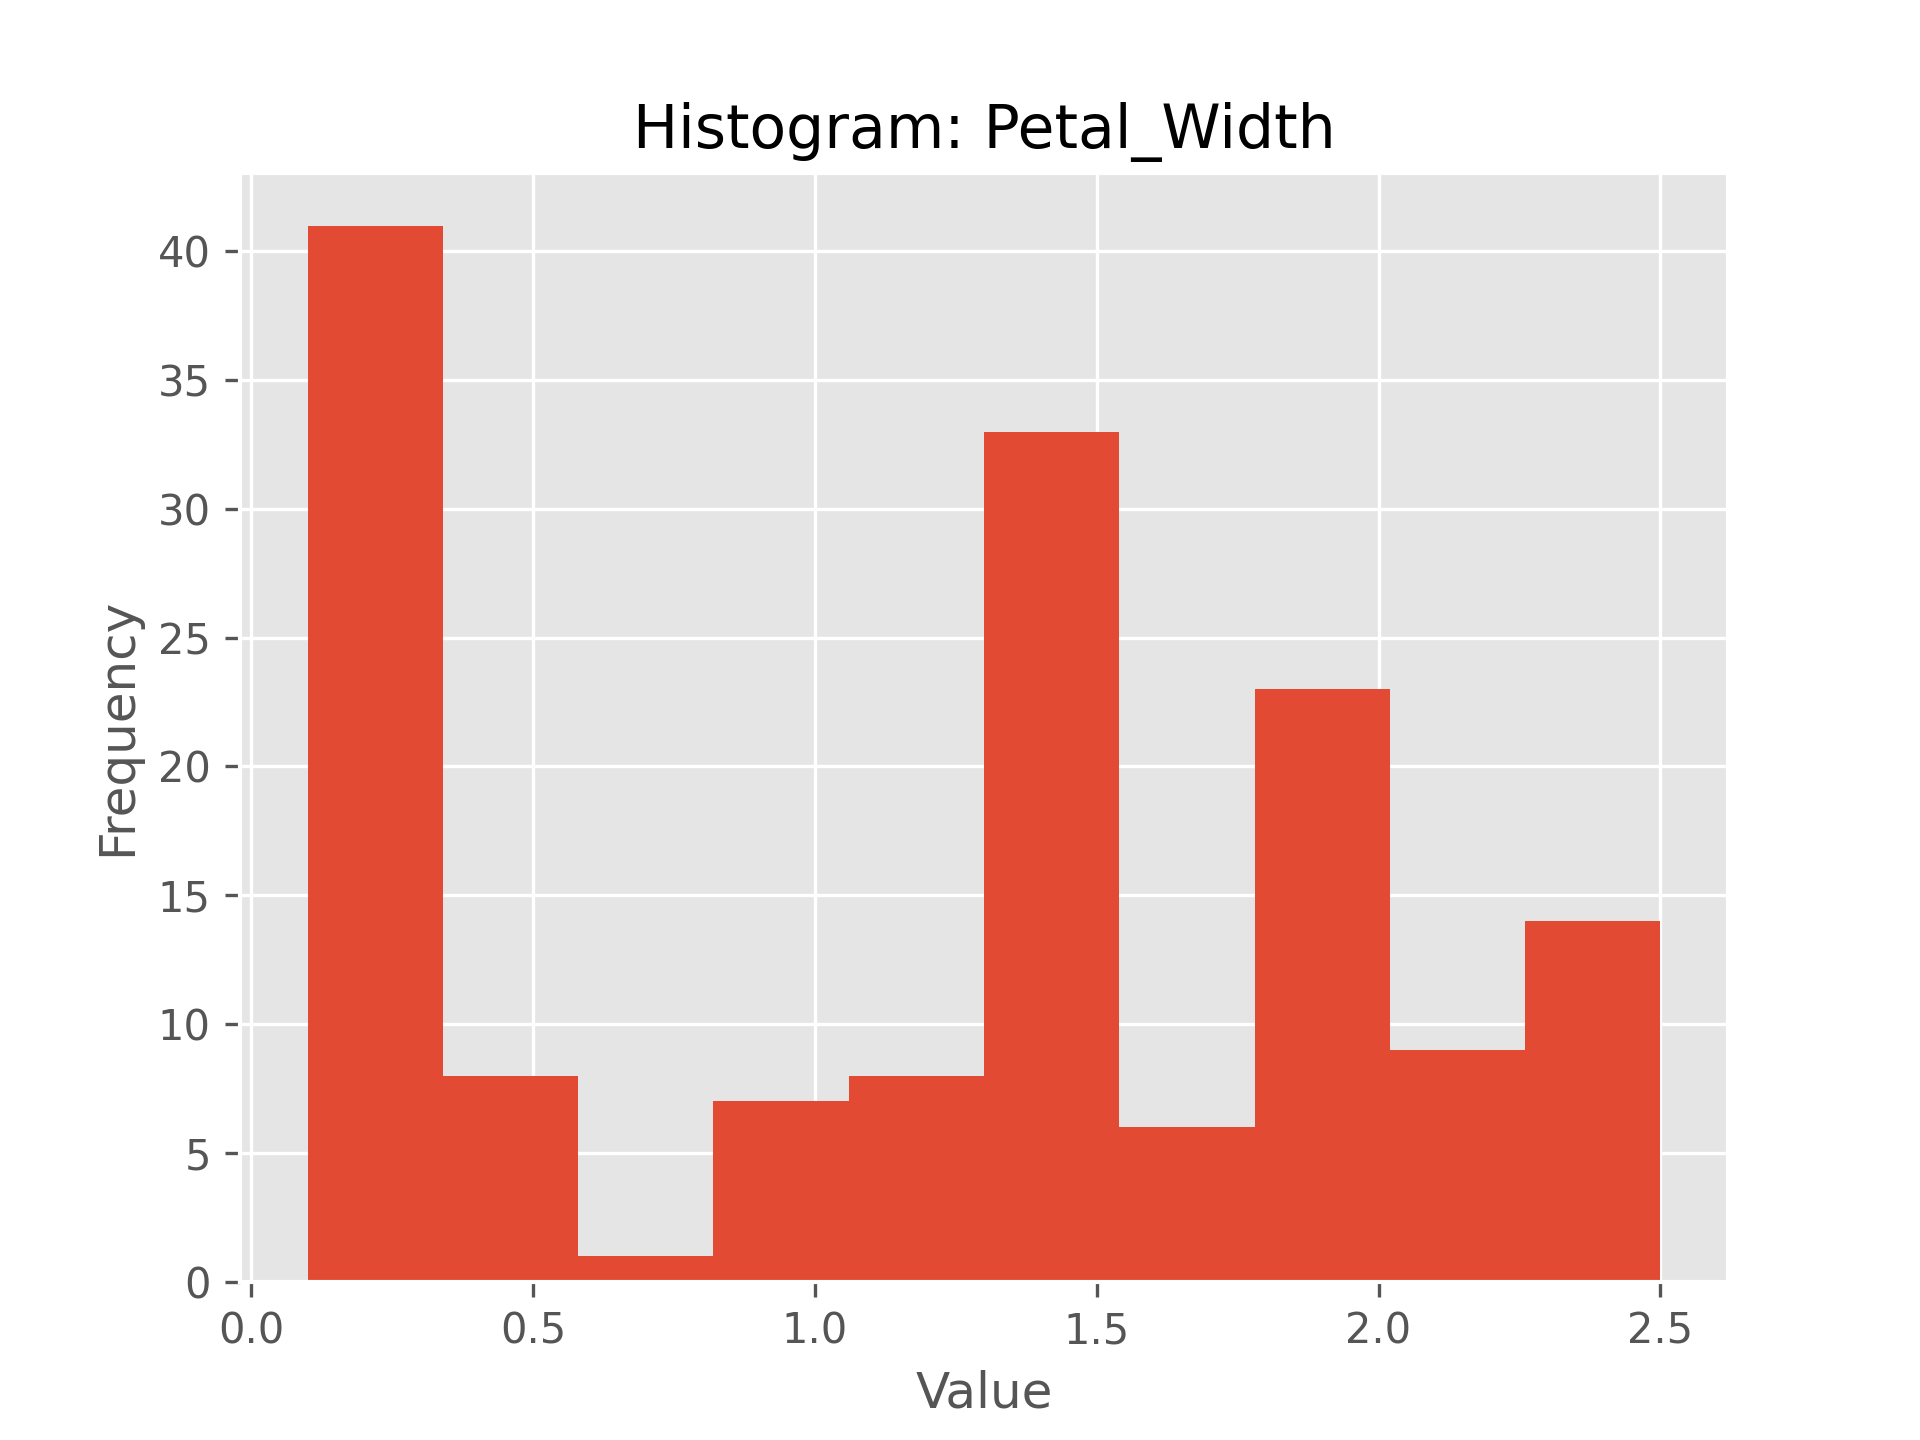
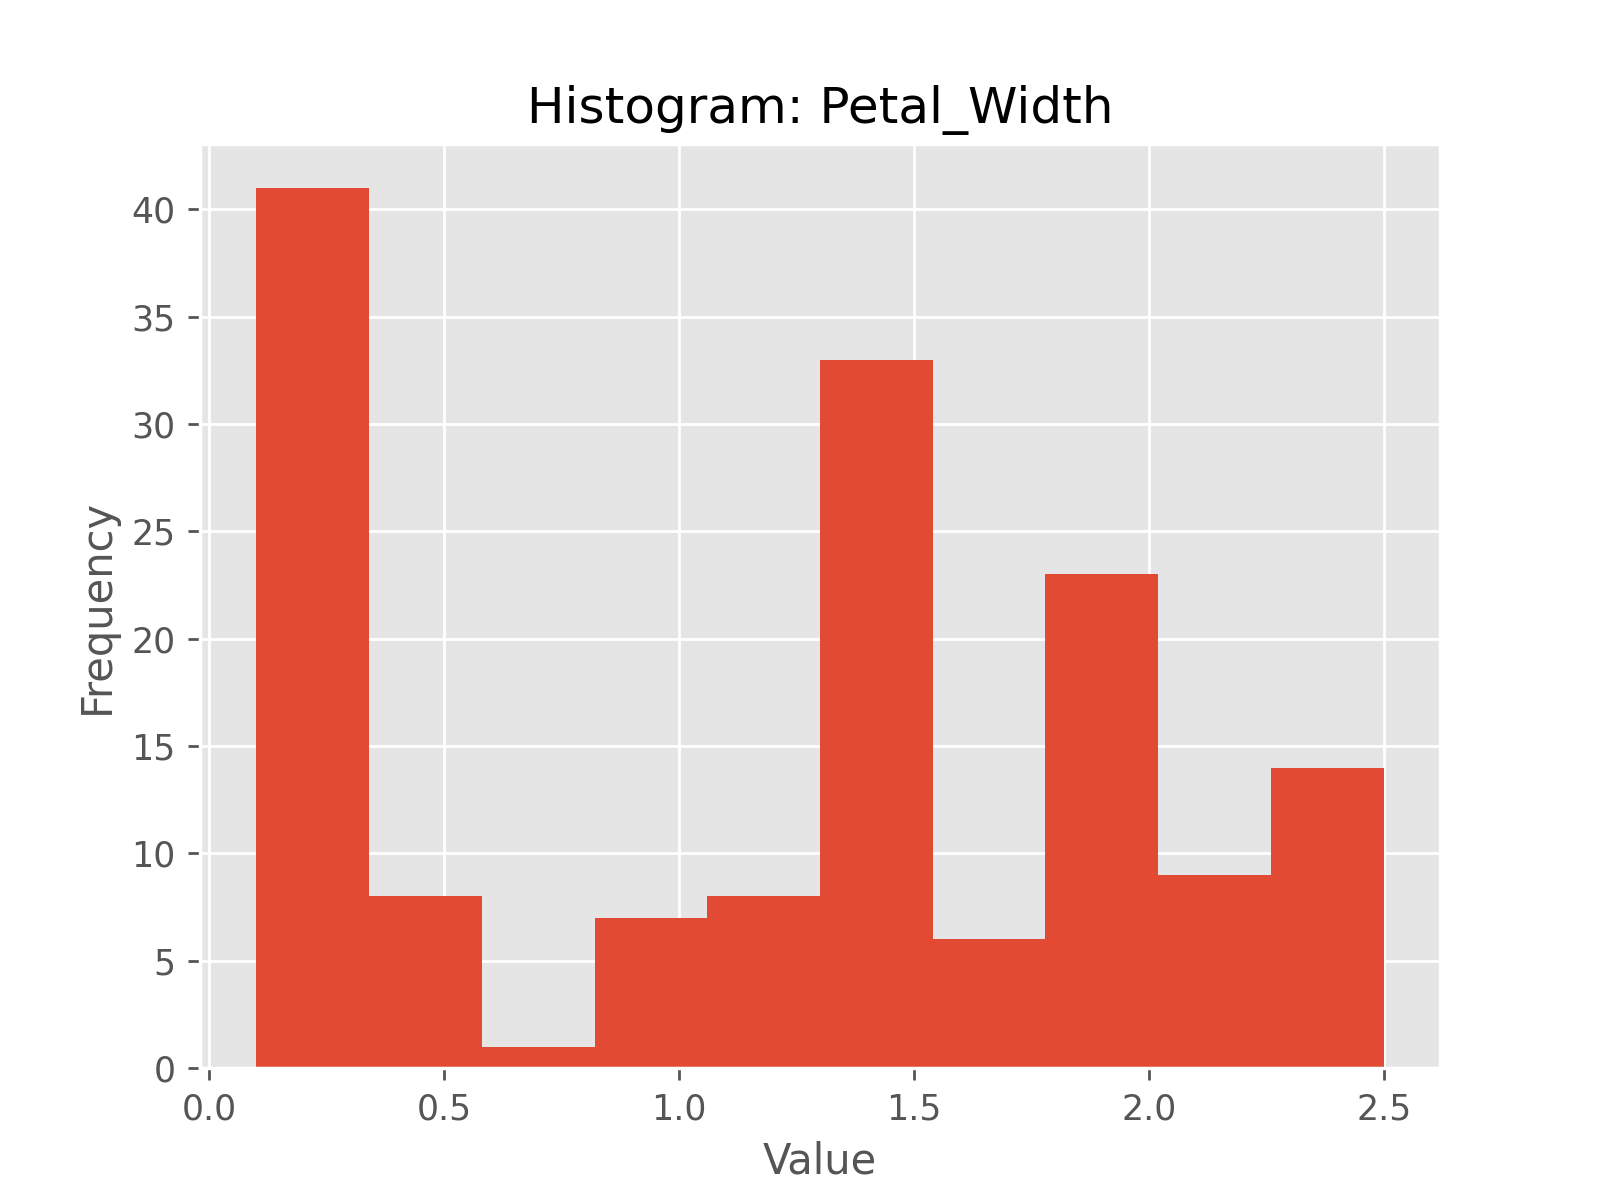
Added sklearn and updated README

diff --git a/analysis.py b/analysis.py
@@ -8,6 +8,9 @@ import matplotlib.pyplot as plt
 import itertools
 import seaborn as sns
 from sklearn.preprocessing import LabelEncoder
+from sklearn.linear_model import LogisticRegression
+from sklearn.model_selection import train_test_split
+from sklearn.metrics import classification_report
 
 plt.style.use('ggplot') # Uses style template
 
@@ -19,24 +22,28 @@ df = pd.read_csv(file_name,
                  names=column_headers) # Inserts column headers
 
 # Convert the class labels to numerical format
-df['Target'] = df['Class'].copy() # Make a copy of class to later encode
+df['Class_Int'] = df['Class'].copy() # Make a copy of the class coolumn to later encode
 le = LabelEncoder()
-df['Target'] = le.fit_transform(df['Target'])
+df['Class_Int'] = le.fit_transform(df['Class'])
+df = df[['Sepal_Length','Sepal_Width','Petal_Length','Petal_Width','Class_Int','Class']] # Rearrange columns.
 
 # Calculate summary statistics and save to a text file
 summary_data = df.describe()
 summary_data.to_csv('summary_data.txt')
 
+df_stats = df.groupby(['Class']).agg(['mean', 'max', 'min'])
+print(df_stats)
+
 # Generate histograms for each numeric variable and save as PNG files
-for column in column_headers[:-1]: # Loop through all column headers except 'class'
+for column in df.columns[:-2]: # Loop through all column headers except 'Class' and 'Class_Int'
     plt.figure() # Create a new figure for each histogram
     ax = df[column].plot(kind='hist', title=f'Histogram: {column}')
     ax.set_xlabel('Value')
     ax.set_ylabel('Frequency')
-    plt.savefig(f'Histogram_{column}.png', dpi=300) # Saves file.
+    plt.savefig(f'Histogram_{column}.png', dpi=250) # Saves file.
 
 # Generate scatterplots for all combinations of numeric variables
-scatterplot_axes = list(itertools.combinations(column_headers[:-1], 2))
+scatterplot_axes = list(itertools.combinations(df.columns[:-1], 2))
 
 for x, y in scatterplot_axes: # Unpacks and loops the x and y variables from each tuple
     plt.figure() # Create a new figure for each histogram
@@ -45,17 +52,31 @@ for x, y in scatterplot_axes: # Unpacks and loops the x and y variables from eac
                 hue='Class',
                 data=df,)
     plt.title(f'Scatterplot: {x} vs {y}')
-    plt.savefig(f'Scatterplot_{x}_vs_{y}.png', dpi=300) # Saves file.
+    plt.savefig(f'Scatterplot_{x}_vs_{y}.png', dpi=250) # Saves file.
 
 sns.pairplot(df, 
-             vars=['Sepal_Length','Sepal_Width','Petal_Length','Petal_Width'],
+             vars=df.columns[:-1],
              hue='Class')
-plt.savefig(f'Pairplot.png', dpi=300)
+plt.savefig(f'Pairplot.png', dpi=250)
 
 plt.figure() # Creates new figure for correlation heatmap
-df_corr = df[['Sepal_Length','Sepal_Width','Petal_Length','Petal_Width']].corr()
+df_corr = df[['Sepal_Length','Sepal_Width','Petal_Length','Petal_Width','Class_Int']].corr()
 sns.heatmap(df_corr, annot=True)
 plt.title('Heatmap: Correlation')
-plt.savefig(f'Heatmap_Correlation', dpi=300)
+plt.tight_layout() # Adjust the layout of the figure
+plt.savefig(f'Heatmap_Correlation', dpi=250)
 
-print(df)
+# Separate features and labels
+X = df[['Sepal_Length', 'Sepal_Width', 'Petal_Length', 'Petal_Width']]
+y = df['Class_Int']
+
+# Split the data into training and testing sets
+X_train, X_test, y_train, y_test = train_test_split(X, y, test_size=0.2)
+
+# Create and train the logistic regression model
+model = LogisticRegression(max_iter=200)
+model.fit(X_train, y_train)
+
+# Evaluate the model
+y_pred = model.predict(X_test)
+print(classification_report(y_test, y_pred))

diff --git a/README.md b/README.md
@@ -10,46 +10,58 @@
 
 In this code the Iris dataset was analysed. This dataset contains measurements of sepal and petal lengths and widths for three different species of iris flowers. The script is organised as follows:
 
-1. Import necessary libraries: We begin by importing the required libraries - pandas, numpy, matplotlib, itertools, and seaborn.<sup>[1,](#ref1)</sup><sup>[3](#ref3)</sup>
+1. Imported necessary libraries: The required libraries were imported: pandas, numpy, matplotlib, itertools, seaborn, and sklearn. These were added to throughout the process when required.<sup>[1,](#ref1)</sup><sup>[3](#ref3)</sup>
 2. Set plot style: The ggplot style is applied to the plots for better visualization.<sup>[5](#ref5)</sup>
-3. Load dataset: The Iris dataset is loaded into a DataFrame with custom column headers using pandas.<sup>[1,](#ref1)</sup><sup>[2](#ref2)</sup>
-4. Generate summary statistics: We calculate summary statistics for each column and save the resulting DataFrame to a text file.<sup>[1,](#ref1)</sup><sup>[3](#ref3)</sup>
-5. Create histograms: For each numeric variable, a histogram is generated, displaying the distribution of values. This was created by looping through the column headers. Each histogram is saved as a PNG file.<sup>[3,](#ref3)</sup><sup>[8](#ref8)</sup>
+3. Loaded dataset: The Iris dataset is loaded into a DataFrame with custom column headers using pandas.<sup>[1,](#ref1)</sup><sup>[2](#ref2)</sup>
+4. Generated summary statistics: We calculate summary statistics for each column and save the resulting DataFrame to a text file.<sup>[1,](#ref1)</sup><sup>[3](#ref3)</sup>
+5. Created histograms: For each numeric variable, a histogram is generated, displaying the distribution of values. This was created by looping through the column headers. Each histogram is saved as a PNG file.<sup>[3,](#ref3)</sup><sup>[8](#ref8)</sup>
 6. Create scatterplots: Scatterplots are created for all combinations of numeric variables, with different colors representing the different iris species due to the Seaborn 'hue' parameter. Using the itertools.combination method a loop through the tuples generated produced a scatterplot for every possible combination. Each scatterplot is saved as a PNG file.<sup>[3,](#ref3)</sup><sup>[4,](#ref4)</sup><sup>[5](#ref5)</sup>
-7. Create pairplot: A pairplot is generated using seaborn, which provides a compact visualization of all possible scatterplots between numeric variables, as well as histograms for each variable. The pairplot is saved as a PNG file.<sup>[3,](#ref3)</sup><sup>[4,](#ref4)</sup><sup>[5](#ref5)</sup>
-8. Create correlation heatmap: A correlation heatmap is created to visualize the correlation between the numeric variables. The heatmap is saved as a PNG file.
-
-
-
-
+7. Created pairplot: A pairplot is generated using seaborn, which provides a compact visualization of all possible scatterplots between numeric variables, as well as histograms for each variable. The pairplot is saved as a PNG file.<sup>[3,](#ref3)</sup><sup>[4,](#ref4)</sup><sup>[5](#ref5)</sup>
+8. Created correlation heatmap: A correlation heatmap is created to visualise the correlation between the numeric variables. The heatmap is saved as a PNG file. <sup>[5](#ref5)</sup>
+9. Added a machine learning logistic regression model to the dataset. Used sklearn to split the data into a training set and a test set. Created the model with the inbuilt functions and then evaluated it on the test set data. <sup>[9](#ref9)</sup><sup>[10](#ref10)</sup>
 10. Completed a README.md of the process.<sup>[6,](#ref6)</sup><sup>[7](#ref7)</sup>
 
 ## Analysis
-From the analysis of the dataset we can see that:
-1.
-2.
 
+From the analysis of the dataset we can see that the following are the main statistics of the dataset:
 
+| Class<sup>[11](#ref11)</sup>           | Sepal_Length |     |     | Sepal_Width |     |     | Petal_Length |     |     | Petal_Width |     |     | Class_Int |   |   |
+|-----------------|--------------|-----|-----|-------------|-----|-----|--------------|-----|-----|-------------|-----|-----|-----------|---|---|
+|                 | mean         | max | min | mean        | max | min | mean         | max | min | mean        | max | min | mean      |max| min|
+| Iris-setosa     | 5.006        | 5.8 | 4.3 | 3.418       | 4.4 | 2.3 | 1.464        | 1.9 | 1.0 | 0.244       | 0.6 | 0.1 | 0.0       | 0 | 0 |
+| Iris-versicolor | 5.936        | 7.0 | 4.9 | 2.770       | 3.4 | 2.0 | 4.260        | 5.1 | 3.0 | 1.326       | 1.8 | 1.0 | 1.0       | 1 | 1 |
+| Iris-virginica  | 6.588        | 7.9 | 4.9 | 2.974       | 3.8 | 2.2 | 5.552        | 6.9 | 4.5 | 2.026       | 2.5 | 1.4 | 2.0       | 2 | 2 |  
 
+Some takeaways from the dataset are:  
+ - Iris-virginica showes a greater sepal length, whereas Iris-setosa has a wider sepal width. In the case of Iris-setosa, the sepal width exceeds the sepal length.  
+ - The highest frequency for petal length is situated between 1 cm and 2 cm, with a count of 50. This can be seen in the histogram.  
+ - The petal length and petal width are highly correlated to each other throughout each iris class with a score of 0.96. This can be seen in the heatmap.  
+ - The model has printed a high accuracy of 0.97, which means it made correct predictions 97% of the time.  
 
 ---
 
 # References
-<a name="ref1">1</a>:&nbsp;&nbsp;&nbsp; [A Gentle Introduction to Pandas Data Analysis](https://www.youtube.com/watch?v=_Eb0utIRdkw)  
+<a name="ref1">1.</a>&nbsp; [A Gentle Introduction to Pandas Data Analysis](https://www.youtube.com/watch?v=_Eb0utIRdkw)  
 
-<a name="ref2">2</a>:&nbsp;&nbsp;&nbsp; [How To Add Header Row To A Pandas DataFrame](https://stackoverflow.com/questions/34091877/how-to-add-header-row-to-a-pandas-dataframe)  
+<a name="ref2">2.</a>&nbsp; [How To Add Header Row To A Pandas DataFrame](https://stackoverflow.com/questions/34091877/how-to-add-header-row-to-a-pandas-dataframe)  
 
-<a name="ref3">3</a>:&nbsp;&nbsp;&nbsp; [W3Schools Pandas Tutorial](https://www.w3schools.com/python/pandas/pandas_analyzing.asp)  
+<a name="ref3">3.</a>&nbsp; [W3Schools Pandas Tutorial](https://www.w3schools.com/python/pandas/pandas_analyzing.asp)  
 
-<a name="ref4">4</a>:&nbsp;&nbsp;&nbsp; [How Do I Iterate Through Combinations Of A List](https://stackoverflow.com/questions/41680388/how-do-i-iterate-through-combinations-of-a-list)  
+<a name="ref4">4.</a>&nbsp; [How Do I Iterate Through Combinations Of A List](https://stackoverflow.com/questions/41680388/how-do-i-iterate-through-combinations-of-a-list)  
 
-<a name="ref5">5</a>:&nbsp;&nbsp;&nbsp; [Exploratory Data Analysis with Pandas Python 2023](https://www.youtube.com/watch?v=xi0vhXFPegw&t=2s)  
+<a name="ref5">5.</a>&nbsp; [Exploratory Data Analysis with Pandas Python 2023](https://www.youtube.com/watch?v=xi0vhXFPegw&t=2s)  
 
-<a name="ref6">6</a>:&nbsp;&nbsp;&nbsp; [Footnotes in Markdown](https://www.javatpoint.com/footnotes-in-markdown)  
+<a name="ref6">6.</a>&nbsp; [Footnotes in Markdown](https://www.javatpoint.com/footnotes-in-markdown)  
 
-<a name="ref7">7</a>:&nbsp;&nbsp;&nbsp; [How to add footnotes to GitHub-flavoured Markdown?](https://stackoverflow.com/questions/25579868/how-to-add-footnotes-to-github-flavoured-markdown)  
+<a name="ref7">7.</a>&nbsp; [How to add footnotes to GitHub-flavoured Markdown?](https://stackoverflow.com/questions/25579868/how-to-add-footnotes-to-github-flavoured-markdown)  
 
-<a name="ref8">8</a>:&nbsp;&nbsp;&nbsp; [iterating quickly through list of tuples](https://stackoverflow.com/questions/16021571/iterating-quickly-through-list-of-tuples)  
+<a name="ref8">8.</a>&nbsp; [iterating quickly through list of tuples](https://stackoverflow.com/questions/16021571/iterating-quickly-through-list-of-tuples)  
+
+<a name="ref9">9.</a>&nbsp; [Intro to Machine Learning with Python 3: Train Test Split and Baseline Modeling](https://www.youtube.com/watch?v=MufPx3L7nXM&list=PLMAyPTgGwv2DUV6DZib9eMetsTTX87JNr&index=3)  
+
+<a name="ref10">10.</a>&nbsp; [Scikit Learn : Confusion Matrix, Accuracy, Precision and Recall](https://www.youtube.com/watch?v=TtIjAiSojFE)  
+
+<a name="ref10">11.</a>&nbsp; [Creating a Markdown Table](https://tablesgenerator.com/markdown_tables)  
 
 
 
